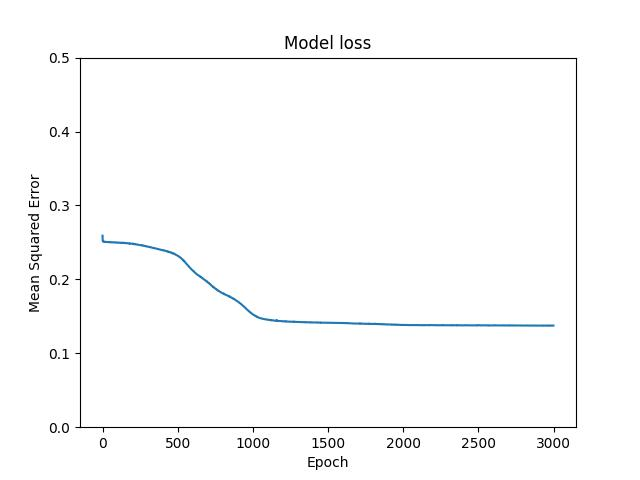
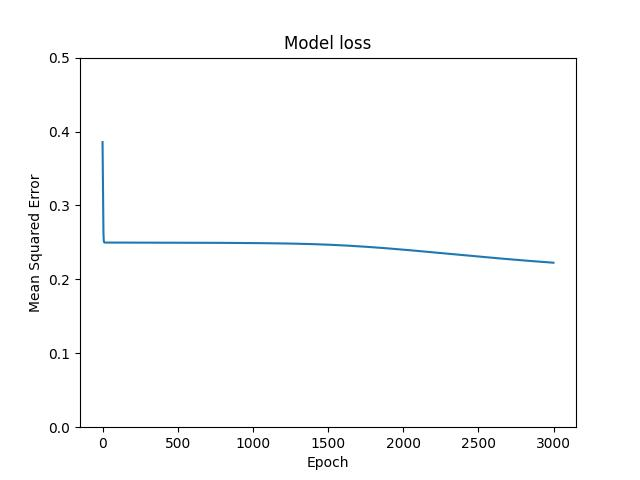
implemented gridsearch

diff --git a/src/assignment1.py b/src/assignment1.py
@@ -11,6 +11,8 @@ from tensorflow.keras.optimizers import SGD
 from sklearn.model_selection import train_test_split
 import matplotlib.pyplot as plt
 import random
+import time
+import tensorflow as tf
 
 
 class Neural_Network:
@@ -21,12 +23,12 @@ class Neural_Network:
         #initialize Biases
         self.Bias = []
         for i in range (len(self.layers)-1):
-            self.Bias.append((np.random.random(self.layers[i+1])*2)-1)
+            self.Bias.append(np.full((self.layers[i+1]), 0.5))
         # self.Bias = np.array(self.Bias)
         #initialize Weights
         self.Weights = []
         for i in range (len(self.layers)-1):
-            self.Weights.append((np.random.random((self.layers[i], self.layers[i+1]))*2)-1)
+            self.Weights.append(np.full((self.layers[i], self.layers[i+1]), 0.5))
         # print('weight array',self.Weights)
         # print(self.Weights[1])
         # print('bias array', self.Bias)
@@ -148,7 +150,7 @@ def plot_data(loss, accuracy, kerasloss, kerasaccuracy):
     plt.ylabel('Mean Squared Error')
     plt.xlabel('Epoch')
     plt.ylim([0, 0.5])
-    plt.savefig('../DeepLearning/ourNN_loss.jpg')
+    plt.savefig('../ourNN_loss.jpg')
     plt.clf()
 
     plt.plot(accuracy)
@@ -156,7 +158,7 @@ def plot_data(loss, accuracy, kerasloss, kerasaccuracy):
     plt.ylabel('Accuracy')
     plt.xlabel('Epoch')
     plt.ylim([0, 1])
-    plt.savefig(f'../DeepLearning/ourNN_accuracy.jpg')
+    plt.savefig(f'../ourNN_accuracy.jpg')
     plt.clf()
 
     plt.plot(kerasloss)
@@ -164,7 +166,7 @@ def plot_data(loss, accuracy, kerasloss, kerasaccuracy):
     plt.ylabel('Mean Squared Error')
     plt.xlabel('Epoch')
     plt.ylim([0, 0.5])
-    plt.savefig('../DeepLearning/keras_loss.jpg')
+    plt.savefig('../keras_loss.jpg')
     plt.clf()
 
     plt.plot(kerasaccuracy)
@@ -172,7 +174,7 @@ def plot_data(loss, accuracy, kerasloss, kerasaccuracy):
     plt.ylabel('Accuracy')
     plt.xlabel('Epoch')
     plt.ylim([0, 1])
-    plt.savefig(f'../DeepLearning/keras_accuracy.jpg')
+    plt.savefig(f'../keras_accuracy.jpg')
     plt.clf()
 
 def load_data():
@@ -208,13 +210,13 @@ def sigmoidderivative(vector):
     return sigderiv
 
 
-def keras_learning(data, input_size, output_size, hidden_layers, Batch_Size, Epochs):
+def keras_learning(data, input_size, output_size, hidden_layers, Batch_Size, Epochs, optimizer):
     optimizer = SGD(learning_rate=0.8, momentum=0)
     model = Sequential()
-    model.add(Dense(input_size[0], activation='sigmoid'))
+    model.add(Dense(input_size[0], activation='sigmoid', kernel_initializer=tf.keras.initializers.Constant(0.5)))
     for i in range(len(hidden_layers)):
-        model.add(Dense(hidden_layers[i], activation='sigmoid'))
-    model.add(Dense(output_size[0], activation='sigmoid'))
+        model.add(Dense(hidden_layers[i], activation='sigmoid', kernel_initializer=tf.keras.initializers.Constant(0.5)))
+    model.add(Dense(output_size[0], activation='sigmoid', kernel_initializer=tf.keras.initializers.Constant(0.5)))
 
     model.compile(loss='mse', optimizer=optimizer, metrics=['accuracy'])
 
@@ -246,7 +248,7 @@ def main():
     ###Adapt the layers to change the shape of the neural network###
     input_size = [2]
     output_size = [1]
-    hidden_layers = [6, 6]
+    hidden_layers = [6]
     Iteration_Epochs = 3000
 
     ##10fold krossvalidation###
@@ -258,14 +260,21 @@ def main():
     runs = 10
     overall_NN_test_acc = []
     overall_keras_test_acc = []
+    overall_NN_time = []
+    overall_keras_time = []
+
     for i in range(runs):
         print("currently in run", i)
         data_train, data_test = split_data(data, 0.8)
         Batch_Size = len(data_train[0])
 
+        start_time = time.time()
         NN = Neural_Network(data_train, input_size, output_size, hidden_layers)
         loss2, accuracy2 = NN.train_network(Batch_Size, Iteration_Epochs)
-        history, model = keras_learning(data, input_size, output_size, hidden_layers, Batch_Size, Iteration_Epochs)
+        NNtime = time.time() - start_time
+        start_time = time.time()
+        history, model = keras_learning(data_train, input_size, output_size, hidden_layers, Batch_Size, Iteration_Epochs, optimizer = SGD(learning_rate=0.8, momentum=0))
+        kerastime = time.time() - start_time
         kerasloss2 = history.history['loss']
         kerasaccuracy2 = history.history['accuracy']
         loss = [a + b for a, b in zip(loss, loss2)]
@@ -273,13 +282,18 @@ def main():
         kerasloss = [a + b for a, b in zip(kerasloss, kerasloss2)]
         kerasaccuracy = [a + b for a, b in zip(kerasaccuracy, kerasaccuracy2)]
 
-        testhistory = model.evaluate(data_test[0], data_test[1])
+        testhistory = model.evaluate(data_test[0], data_test[1], verbose = 0)
         overall_NN_test_acc.append(testhistory[1])
         testaccuracy = NN.classify(data_test[0], data_test[1])
         overall_keras_test_acc.append(testaccuracy)
 
+        overall_NN_time.append(NNtime)
+        overall_keras_time.append(kerastime)
+
     print("keras", np.std(overall_keras_test_acc), np.mean(overall_keras_test_acc))
     print("NN", np.std(overall_NN_test_acc), np.mean(overall_NN_test_acc))
+    print("kerastime", np.std(overall_keras_time), np.mean(overall_keras_time))
+    print("NNtime", np.std(overall_NN_time), np.mean(overall_NN_time))
     
     loss = [a / runs for a in loss]
     accuracy = [a / runs for a in accuracy]
@@ -290,10 +304,21 @@ def main():
 
 
 
+    ##Gridsearch###
+    # data_train, data_test = split_data(data, 0.8)
+    # Batch_Size = len(data_train[0])
 
-
-
-
+    # input_size = [2]
+    # output_size = [1]
+    # Iteration_Epochs = 3000
+    # hidden_layerss = [[4],[6],[10],[4,4],[6,6]]
+    # SGDs = [SGD(learning_rate=0.3, momentum=0), SGD(learning_rate=0.5, momentum=0), SGD(learning_rate=0.8, momentum=0)]
+    # for hidden_layers in hidden_layerss:
+    #     for optimizer in SGDs:
+    #         history, model = keras_learning(data_train, input_size, output_size, hidden_layers, Batch_Size, Iteration_Epochs, optimizer = optimizer)
+    #         testhistory = model.evaluate(data_test[0], data_test[1], verbose = 0)
+    #         print("\n")
+    #         print(hidden_layers, optimizer.learning_rate, testhistory)
 
 
     
